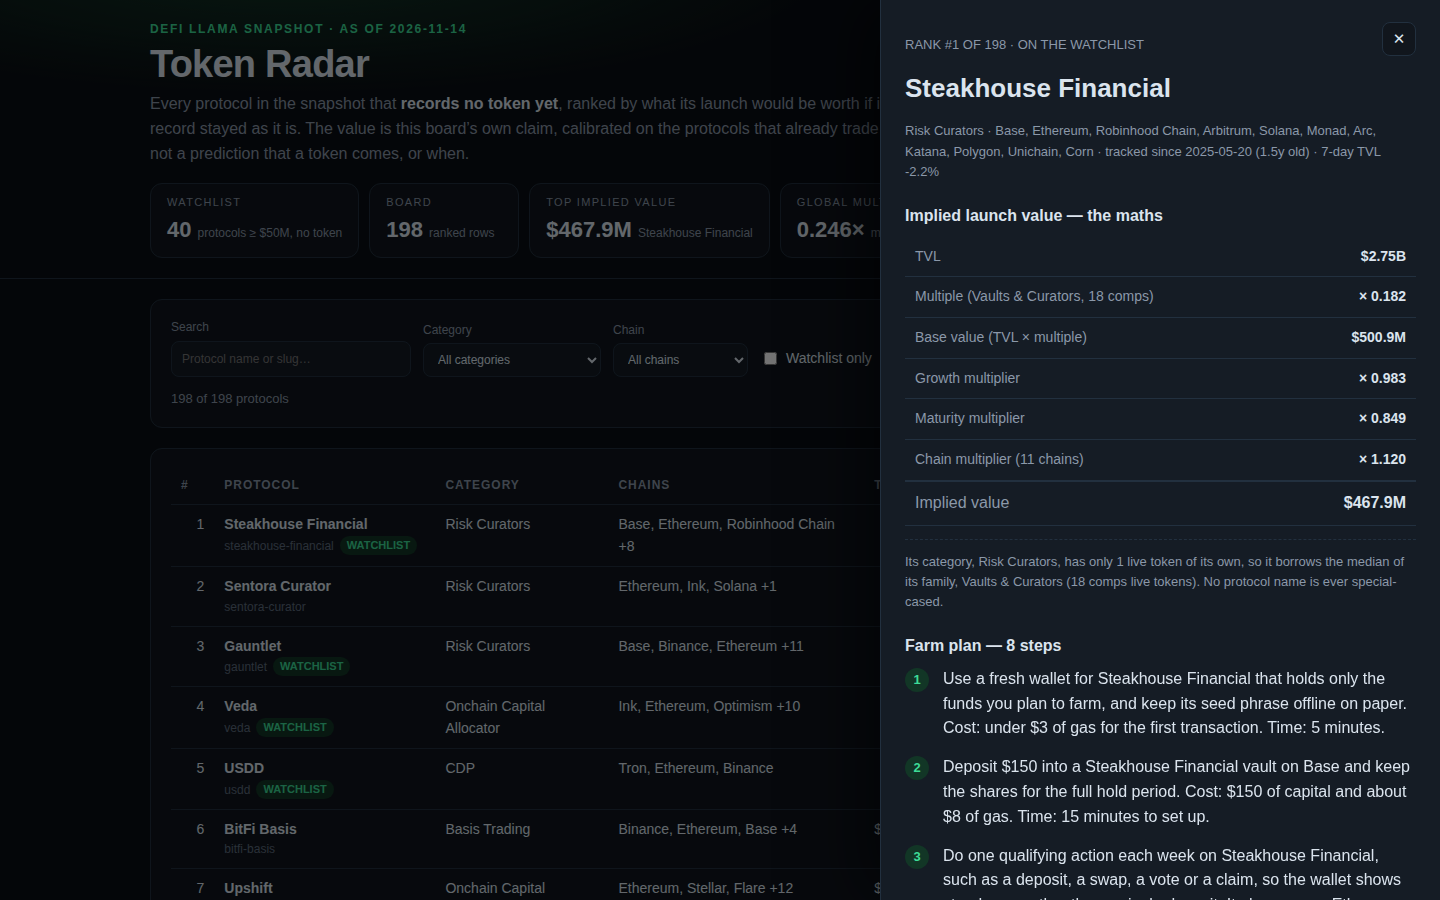
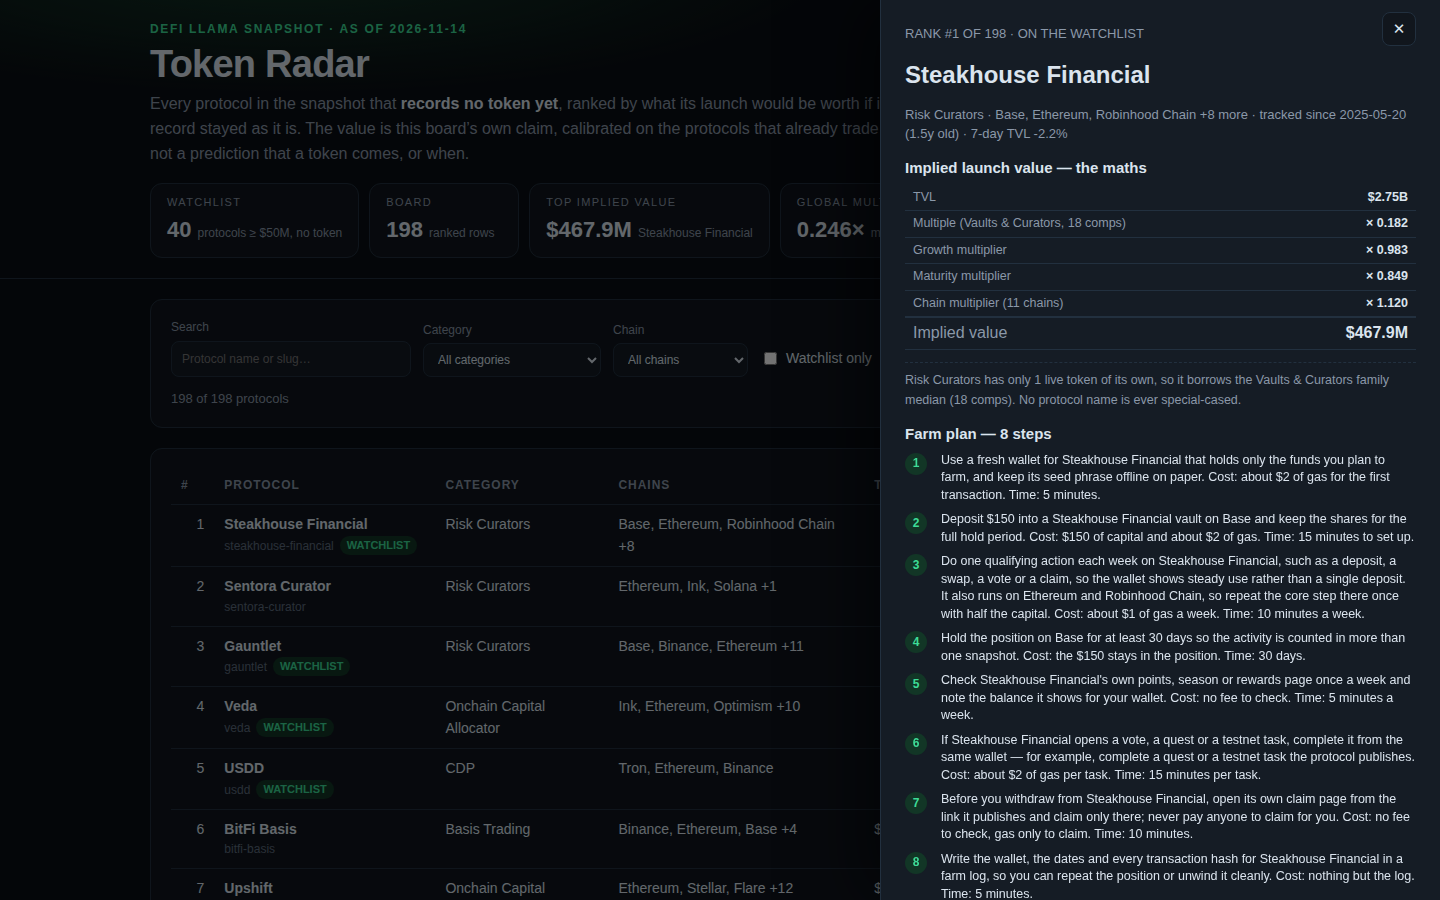
Token Radar v4: chain-priced farm plans, momentum-aware hold, full plan in detail view
- Farm plans: gas is priced from the chain the protocol runs on
  (Ethereum ~$15, Solana under $1, other chains ~$2) instead of one
  flat figure; the hold step reads the protocol's own 7-day TVL move,
  so 53 rows carry a momentum note (fast grower: add only if the gain
  holds; sharp faller: keep the first position small). Ranking and the
  family-calibrated model are unchanged.
- Detail drawer: compacted (tighter maths table, shorter multiple
  note, capped chain list, smaller step type) so the whole 8-step farm
  plan is visible in the 1440x900 detail screenshot; v3 showed only
  steps 1-3 with step 3 cut off. Base-value row dropped as redundant.
- Screenshots retaken; two runs byte-identical; gate self-check passes.

Changed region(s): [[0.625, 0.0311, 1.0, 1.0]]

diff --git a/lib/model.ts b/lib/model.ts
@@ -1,4 +1,4 @@
-// Token Radar model v3 ("radar-3 families"): implied launch value calibrated on
+// Token Radar model v4 ("radar-4 chain-gas"): implied launch value calibrated on
 // the snapshot's own live-token protocols, never on a hardcoded list of names.
 //
 // Idea: a protocol that already trades tells the market what a dollar of TVL is
@@ -16,6 +16,11 @@
 //   maturity  — days since DefiLlama started tracking it, older is more proven;
 //   chains    — each extra chain is wider distribution, worth a little more.
 //   implied = tvl_usd x multiple x growthMult x maturityMult x chainMult
+//
+// The farm plan is priced from the protocol's own record too: gas follows the
+// chain it runs on (Ethereum mainnet dear, Solana cheap, the rest in between),
+// and the hold step reads the protocol's own 7-day TVL move, so a fast grower
+// and a sharp faller get different sizing advice.
 //
 // A protocol is pre-token when its record carries no market cap, no CoinGecko id
 // and no symbol. The board ranks every rankable pre-token protocol in the
@@ -86,7 +91,7 @@ export const MODEL: ModelConstants = {
 };
 
 /** The model's version label: the dashboard names it. */
-export const MODEL_VERSION = 'radar-3 families';
+export const MODEL_VERSION = 'radar-4 chain-gas';
 
 /** A farm step: the action, what it costs, and how long it takes. */
 export interface FarmStep {
@@ -456,7 +461,16 @@ export function buildBoard(snapshot: Snapshot, model: ModelConstants = MODEL): B
 
 const round4 = (n: number): number => Math.round(n * 1e4) / 1e4;
 
-/** A step as one string: its action, then its cost and time, within the gate's 20..600 characters. */
+/** What the protocol's own 7-day TVL move says about sizing the hold: a fast
+ * grower is worth adding to only if the gain holds, a sharp faller is worth a
+ * small first position until the outflow stops. */
+function momentumNote(p: SnapshotProtocol): string {
+  const g = p.change_7d;
+  if (g === null) return '';
+  if (g >= 20) return ` Its TVL is up ${Math.round(g)}% in 7 days, so it is catching a fast grower — add to the position only if the next week's TVL holds the gain.`;
+  if (g <= -10) return ` Its TVL is down ${Math.round(Math.abs(g))}% in 7 days, so keep the first position small and add only if the outflow stops.`;
+  return '';
+}
 export function stepText(step: FarmStep): string {
   let s = `${step.text} Cost: ${step.cost}. Time: ${step.time}.`;
   if (s.length > 600) s = `${s.slice(0, 596)}...`;
@@ -539,6 +553,21 @@ function taskFor(p: SnapshotProtocol): string {
   return 'complete a quest or a testnet task the protocol publishes';
 }
 
+/** What one transaction costs on a chain, from the snapshot's own chain names:
+ * Ethereum mainnet is the expensive one, Solana the cheapest, every other
+ * chain sits in between. The plan prices its gas from the chain it runs on
+ * instead of one flat figure for all 198 protocols. */
+function gasFor(chain: string): { first: string; setup: string; weekly: string; task: string } {
+  const c = chain.toLowerCase();
+  if (c === 'ethereum') {
+    return { first: 'about $15 of gas for the first transaction', setup: 'about $15 of gas', weekly: 'about $5 of gas a week', task: 'about $5 of gas per task' };
+  }
+  if (c === 'solana') {
+    return { first: 'under $1 of gas for the first transaction', setup: 'under $1 of gas', weekly: 'under $1 of gas a week', task: 'under $1 of gas per task' };
+  }
+  return { first: 'about $2 of gas for the first transaction', setup: 'about $2 of gas', weekly: 'about $1 of gas a week', task: 'about $2 of gas per task' };
+}
+
 /**
  * A protocol's farm plan: eight steps, each an action with a cost and a time.
  * The plan is derived from the protocol's own record (name, category, chains,
@@ -553,25 +582,26 @@ export function farmSteps(p: SnapshotProtocol, age: number | null): FarmStep[] {
   const action = actionFor(p, capital, chain);
   const weekly = weeklyFor(p);
   const task = taskFor(p);
+  const gas = gasFor(chain);
   const extraChains = p.chains.length > 1 ? ` It also runs on ${p.chains.slice(1, 3).join(' and ')}, so repeat the core step there once with half the capital.` : '';
   return [
     {
       text: `Use a fresh wallet for ${p.name} that holds only the funds you plan to farm, and keep its seed phrase offline on paper.`,
-      cost: 'under $3 of gas for the first transaction',
+      cost: gas.first,
       time: '5 minutes',
     },
     {
       text: action,
-      cost: `$${capital} of capital and about $${capital >= 150 ? 8 : 4} of gas`,
+      cost: `$${capital} of capital and ${gas.setup}`,
       time: '15 minutes to set up',
     },
     {
       text: `Do one qualifying action each week on ${p.name}, such as ${weekly}, so the wallet shows steady use rather than a single deposit.${extraChains}`,
-      cost: 'about $2 of gas a week',
+      cost: gas.weekly,
       time: '10 minutes a week',
     },
     {
-      text: `Hold the position on ${chain} for at least ${hold} days so the activity is counted in more than one snapshot.`,
+      text: `Hold the position on ${chain} for at least ${hold} days so the activity is counted in more than one snapshot.${momentumNote(p)}`,
       cost: `the $${capital} stays in the position`,
       time: `${hold} days`,
     },
@@ -582,7 +612,7 @@ export function farmSteps(p: SnapshotProtocol, age: number | null): FarmStep[] {
     },
     {
       text: `If ${p.name} opens a vote, a quest or a testnet task, complete it from the same wallet — for example, ${task}.`,
-      cost: 'about $2 of gas per task',
+      cost: gas.task,
       time: '15 minutes per task',
     },
     {

diff --git a/dashboard/app.js b/dashboard/app.js
@@ -105,23 +105,22 @@
     var r = null;
     for (var i = 0; i < rows.length; i++) if (rows[i].slug === slug) { r = rows[i]; break; }
     if (!r) return;
-    var base = r.tvl_usd * r.category_multiple;
     var multNote = r.multiple_source === 'category'
-      ? 'The multiple is the median market-cap / TVL of the ' + r.group_comps + ' live-token protocols in this category, taken from this same snapshot.'
+      ? 'The multiple is the median market-cap / TVL of the ' + r.group_comps + ' live-token protocols in this category, from this same snapshot.'
       : r.multiple_source === 'family'
-        ? 'Its category, ' + (r.category || 'Uncategorised') + ', has only ' + r.category_comps + ' live token' + (r.category_comps === 1 ? '' : 's') + ' of its own, so it borrows the median of its family, ' + r.multiple_group + ' (' + compLabel(r.group_comps) + ' live tokens).'
-        : 'Its category has only ' + r.category_comps + ' live token' + (r.category_comps === 1 ? '' : 's') + ' and belongs to no family, so it borrows the global median of all ' + compLabel(r.group_comps) + ' live tokens.';
+        ? (r.category || 'Uncategorised') + ' has only ' + r.category_comps + ' live token' + (r.category_comps === 1 ? '' : 's') + ' of its own, so it borrows the ' + r.multiple_group + ' family median (' + compLabel(r.group_comps) + ').'
+        : 'Its category has only ' + r.category_comps + ' live token' + (r.category_comps === 1 ? '' : 's') + ' and no family, so it borrows the global median of all ' + compLabel(r.group_comps) + '.';
+    var chainList = r.chains.length > 3 ? r.chains.slice(0, 3).join(', ') + ' +' + (r.chains.length - 3) + ' more' : r.chains.join(', ');
     $('detailBody').innerHTML =
       '<p class="meta">RANK #' + r.rank + ' OF ' + rows.length + (r.watchlist ? ' · ON THE WATCHLIST' : ' · BELOW THE FLOOR') + '</p>' +
       '<h2>' + esc(r.name) + '</h2>' +
-      '<p class="meta">' + esc(r.category || 'Uncategorised') + ' · ' + esc(r.chains.join(', ') || '—') +
+      '<p class="meta">' + esc(r.category || 'Uncategorised') + ' · ' + esc(chainList) +
       ' · tracked since ' + esc(r.listed_at || 'unknown') + ' (' + ageText(r.age_days) + ')' +
       ' · 7-day TVL ' + (r.change_7d == null ? 'n/a' : (r.change_7d > 0 ? '+' : '') + r.change_7d.toFixed(1) + '%') + '</p>' +
       '<h3>Implied launch value — the maths</h3>' +
       '<table class="math"><tbody>' +
       '<tr><td>TVL</td><td>' + money(r.tvl_usd) + '</td></tr>' +
       '<tr><td>Multiple (' + esc(r.multiple_group) + ', ' + compLabel(r.group_comps) + ')</td><td>× ' + r.category_multiple.toFixed(3) + '</td></tr>' +
-      '<tr><td>Base value (TVL × multiple)</td><td>' + money(base) + '</td></tr>' +
       '<tr><td>Growth multiplier</td><td>× ' + r.growth_multiplier.toFixed(3) + '</td></tr>' +
       '<tr><td>Maturity multiplier</td><td>× ' + r.maturity_multiplier.toFixed(3) + '</td></tr>' +
       '<tr><td>Chain multiplier (' + r.chains.length + ' chain' + (r.chains.length === 1 ? '' : 's') + ')</td><td>× ' + r.chain_multiplier.toFixed(3) + '</td></tr>' +

diff --git a/dashboard/app.css b/dashboard/app.css
@@ -52,21 +52,24 @@ td .sub{display:block;color:var(--faint);font-size:12px}
 .note{color:var(--muted);font-size:13px;border-top:1px dashed var(--line);padding-top:12px}
 #comps td,#live td{font-variant-numeric:tabular-nums}
 .drawer{position:fixed;top:0;right:0;bottom:0;width:min(560px,94vw);background:var(--panel2);
-  border-left:1px solid var(--line);z-index:20;overflow-y:auto;padding:22px 24px 40px;
+  border-left:1px solid var(--line);z-index:20;overflow-y:auto;padding:12px 24px 24px;
   box-shadow:-20px 0 60px rgba(0,0,0,.5)}
 #close{position:sticky;top:0;float:right;background:var(--panel);border:1px solid var(--line);
   color:var(--text);border-radius:8px;width:34px;height:34px;cursor:pointer;font-size:15px}
-.drawer h2{font-size:26px;margin:4px 40px 4px 0}
-.drawer .meta{color:var(--muted);font-size:13px}
-.drawer h3{margin:22px 0 8px}
+.drawer h2{font-size:24px;margin:2px 40px 2px 0}
+.drawer .meta{color:var(--muted);font-size:13px;line-height:1.4}
+.drawer h3{margin:10px 0 6px;font-size:15px}
+.drawer .note{font-size:12.5px;padding-top:8px}
+.drawer .math{font-size:12.5px}
+.drawer .math td{padding:3px 8px}
 .math{width:100%;font-size:14px}
 .math td:first-child{color:var(--muted)}
 .math td:last-child{text-align:right;font-variant-numeric:tabular-nums;font-weight:600}
 .math tr.total td{border-top:2px solid var(--line);font-size:16px}
 .steps{list-style:none;margin:0;padding:0;counter-reset:s}
-.steps li{counter-increment:s;position:relative;padding:0 0 14px 38px}
-.steps li::before{content:counter(s);position:absolute;left:0;top:1px;width:24px;height:24px;
-  border-radius:50%;background:#123626;color:var(--green);font-size:13px;font-weight:700;
+.steps li{counter-increment:s;position:relative;padding:0 0 7px 36px;font-size:12.5px;line-height:1.4}
+.steps li::before{content:counter(s);position:absolute;left:0;top:1px;width:22px;height:22px;
+  border-radius:50%;background:#123626;color:var(--green);font-size:12px;font-weight:700;
   display:flex;align-items:center;justify-content:center}
 #scrim{position:fixed;inset:0;background:rgba(0,0,0,.55);z-index:10}
 footer{color:var(--faint);font-size:12px;padding:8px 0 34px}
